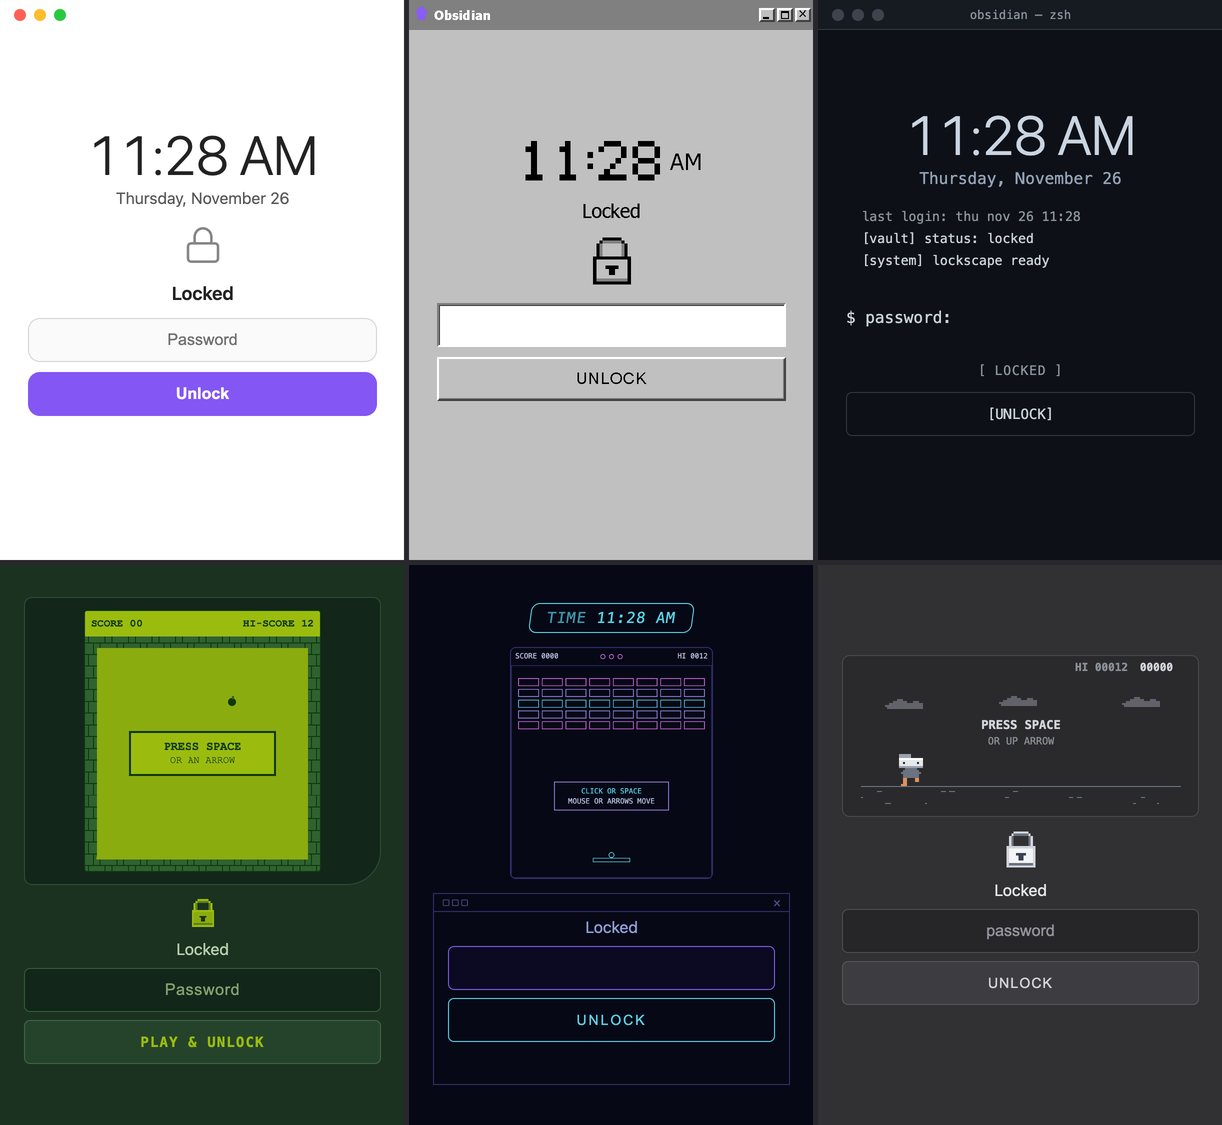
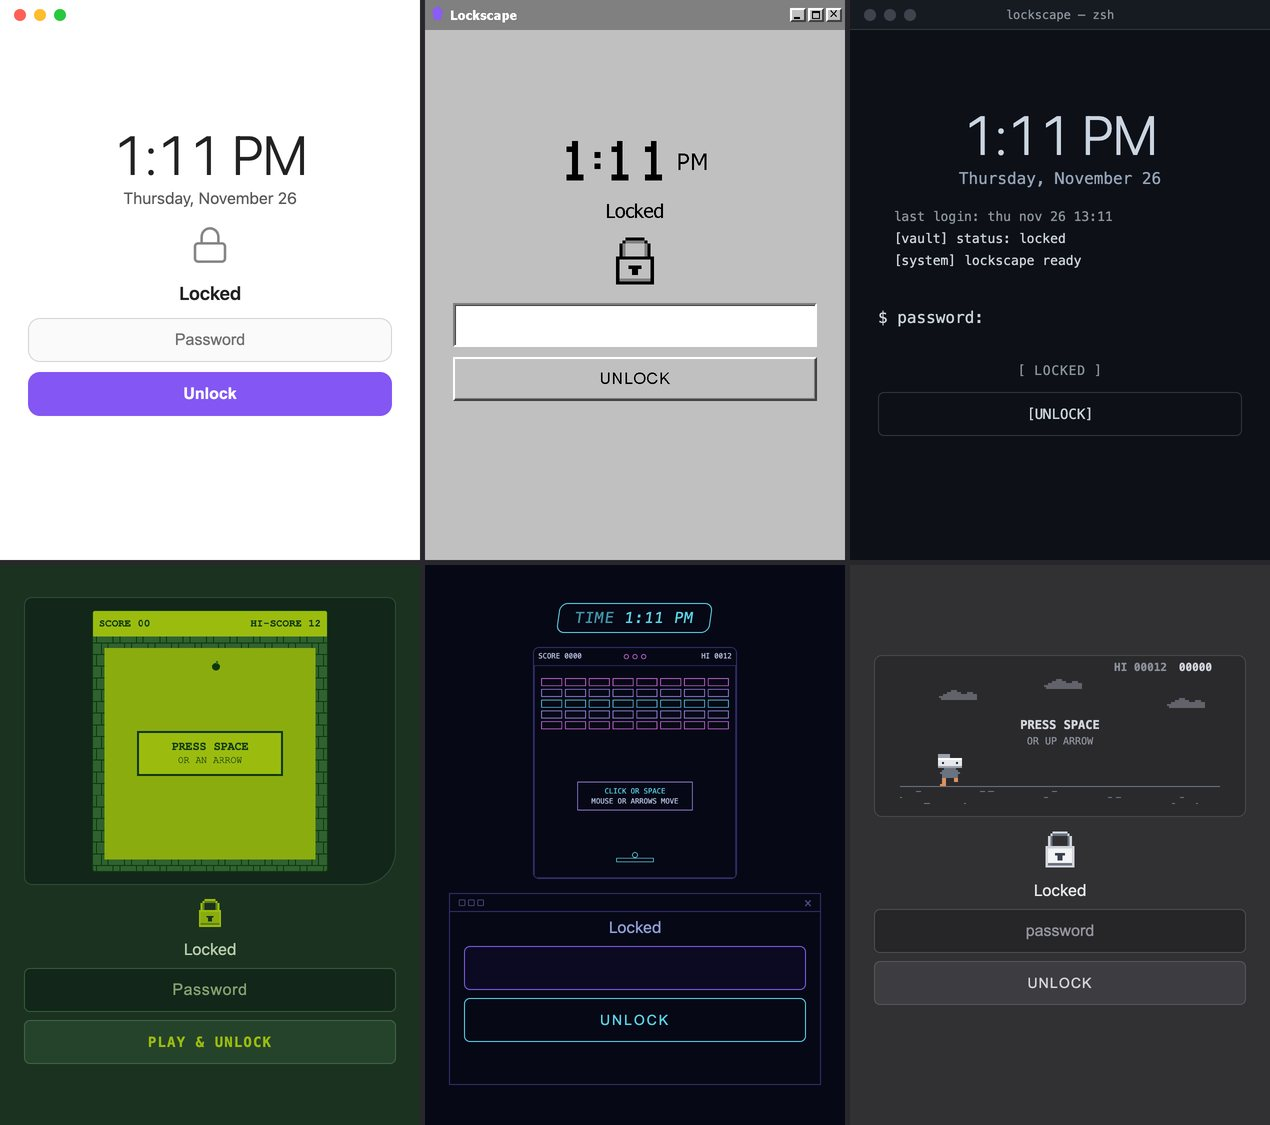
Lockscape 0.1.2: drop the Obsidian name from themes
- rename the runner theme to Folder runner (id folder-runner; the old id is migrated)
- Windows 95 title bar and terminal header now say Lockscape
- new theme screenshot

diff --git a/main.js b/main.js
@@ -462,7 +462,7 @@ var en = {
   themeTerminal: "Developer terminal",
   themeSnake: "Handheld snake (game)",
   themeBreakout: "Arcade breakout (game)",
-  themeRunner: "Obsidian runner (game)",
+  themeRunner: "Folder runner (game)",
   themeAuto: "Theme default",
   animGlow: "Cursor spotlight",
   animTrail: "Cursor trail",
@@ -629,7 +629,7 @@ var ko = {
   themeTerminal: "\uAC1C\uBC1C\uC790 \uD130\uBBF8\uB110",
   themeSnake: "\uAC8C\uC784\uBCF4\uC774 \uC2A4\uB124\uC774\uD06C (\uAC8C\uC784)",
   themeBreakout: "\uC544\uCF00\uC774\uB4DC \uBCBD\uB3CC\uAE68\uAE30 (\uAC8C\uC784)",
-  themeRunner: "\uC635\uC2DC\uB514\uC5B8 \uB7EC\uB108 (\uAC8C\uC784)",
+  themeRunner: "\uD3F4\uB354 \uB7EC\uB108 (\uAC8C\uC784)",
   themeAuto: "\uD14C\uB9C8 \uAE30\uBCF8",
   animGlow: "\uB9C8\uC6B0\uC2A4 \uC870\uBA85",
   animTrail: "\uB9C8\uC6B0\uC2A4 \uADA4\uC801",
@@ -796,7 +796,7 @@ var ja = {
   themeTerminal: "\u958B\u767A\u8005\u30BF\u30FC\u30DF\u30CA\u30EB",
   themeSnake: "\u643A\u5E2F\u30B2\u30FC\u30E0\u6A5F\u30B9\u30CD\u30FC\u30AF (\u30B2\u30FC\u30E0)",
   themeBreakout: "\u30A2\u30FC\u30B1\u30FC\u30C9\u30D6\u30ED\u30C3\u30AF\u5D29\u3057 (\u30B2\u30FC\u30E0)",
-  themeRunner: "\u30AA\u30D6\u30B7\u30C7\u30A3\u30A2\u30F3\u30FB\u30E9\u30F3\u30CA\u30FC (\u30B2\u30FC\u30E0)",
+  themeRunner: "\u30D5\u30A9\u30EB\u30C0\u30FC\u30FB\u30E9\u30F3\u30CA\u30FC (\u30B2\u30FC\u30E0)",
   themeAuto: "\u30C6\u30FC\u30DE\u306E\u65E2\u5B9A",
   animGlow: "\u30AB\u30FC\u30BD\u30EB\u306E\u30B9\u30DD\u30C3\u30C8\u30E9\u30A4\u30C8",
   animTrail: "\u30AB\u30FC\u30BD\u30EB\u306E\u8ECC\u8DE1",
@@ -963,7 +963,7 @@ var zh = {
   themeTerminal: "\u5F00\u53D1\u8005\u7EC8\u7AEF",
   themeSnake: "\u638C\u673A\u8D2A\u5403\u86C7 (\u6E38\u620F)",
   themeBreakout: "\u8857\u673A\u6253\u7816\u5757 (\u6E38\u620F)",
-  themeRunner: "\u9ED1\u66DC\u77F3\u8DD1\u9177 (\u6E38\u620F)",
+  themeRunner: "\u6587\u4EF6\u5939\u8DD1\u9177 (\u6E38\u620F)",
   themeAuto: "\u4E3B\u9898\u9ED8\u8BA4",
   animGlow: "\u9F20\u6807\u805A\u5149\u706F",
   animTrail: "\u9F20\u6807\u8F68\u8FF9",
@@ -1130,7 +1130,7 @@ var zhTW = {
   themeTerminal: "\u958B\u767C\u8005\u7D42\u7AEF\u6A5F",
   themeSnake: "\u638C\u6A5F\u8CAA\u98DF\u86C7 (\u904A\u6232)",
   themeBreakout: "\u8857\u6A5F\u6253\u78DA\u584A (\u904A\u6232)",
-  themeRunner: "\u9ED1\u66DC\u77F3\u8DD1\u9177 (\u904A\u6232)",
+  themeRunner: "\u8CC7\u6599\u593E\u8DD1\u9177 (\u904A\u6232)",
   themeAuto: "\u4E3B\u984C\u9810\u8A2D",
   animGlow: "\u6ED1\u9F20\u805A\u5149\u71C8",
   animTrail: "\u6ED1\u9F20\u8ECC\u8DE1",
@@ -1297,7 +1297,7 @@ var es = {
   themeTerminal: "Terminal de desarrollo",
   themeSnake: "Serpiente port\xE1til (juego)",
   themeBreakout: "Arcade rompe-bloques (juego)",
-  themeRunner: "Obsidian Runner (juego)",
+  themeRunner: "Folder Runner (juego)",
   themeAuto: "Predeterminada del tema",
   animGlow: "Foco que sigue al cursor",
   animTrail: "Estela del cursor",
@@ -1464,7 +1464,7 @@ var fr = {
   themeTerminal: "Terminal d\xE9veloppeur",
   themeSnake: "Snake console portable (jeu)",
   themeBreakout: "Casse-briques arcade (jeu)",
-  themeRunner: "Obsidian Runner (jeu)",
+  themeRunner: "Folder Runner (jeu)",
   themeAuto: "D\xE9faut du th\xE8me",
   animGlow: "Projecteur qui suit le curseur",
   animTrail: "Tra\xEEn\xE9e du curseur",
@@ -1631,7 +1631,7 @@ var de = {
   themeTerminal: "Entwickler-Terminal",
   themeSnake: "Handheld-Snake (Spiel)",
   themeBreakout: "Arcade-Breakout (Spiel)",
-  themeRunner: "Obsidian-Runner (Spiel)",
+  themeRunner: "Folder-Runner (Spiel)",
   themeAuto: "Theme-Standard",
   animGlow: "Cursor-Scheinwerfer",
   animTrail: "Cursor-Spur",
@@ -1798,7 +1798,7 @@ var pt = {
   themeTerminal: "Terminal do desenvolvedor",
   themeSnake: "Snake port\xE1til (jogo)",
   themeBreakout: "Quebra-blocos arcade (jogo)",
-  themeRunner: "Obsidian Runner (jogo)",
+  themeRunner: "Folder Runner (jogo)",
   themeAuto: "Padr\xE3o do tema",
   animGlow: "Holofote do cursor",
   animTrail: "Rastro do cursor",
@@ -1965,7 +1965,7 @@ var ru = {
   themeTerminal: "\u0422\u0435\u0440\u043C\u0438\u043D\u0430\u043B \u0440\u0430\u0437\u0440\u0430\u0431\u043E\u0442\u0447\u0438\u043A\u0430",
   themeSnake: "\u0417\u043C\u0435\u0439\u043A\u0430 \u043D\u0430 \u043A\u043E\u043D\u0441\u043E\u043B\u0438 (\u0438\u0433\u0440\u0430)",
   themeBreakout: "\u0410\u0440\u043A\u0430\u0434\u0430: \u0440\u0430\u0437\u0431\u0435\u0439 \u043A\u0438\u0440\u043F\u0438\u0447\u0438 (\u0438\u0433\u0440\u0430)",
-  themeRunner: "Obsidian Runner (\u0438\u0433\u0440\u0430)",
+  themeRunner: "Folder Runner (\u0438\u0433\u0440\u0430)",
   themeAuto: "\u0418\u0437 \u0442\u0435\u043C\u044B",
   animGlow: "\u041F\u0440\u043E\u0436\u0435\u043A\u0442\u043E\u0440 \u0437\u0430 \u043A\u0443\u0440\u0441\u043E\u0440\u043E\u043C",
   animTrail: "\u0421\u043B\u0435\u0434 \u043A\u0443\u0440\u0441\u043E\u0440\u0430",
@@ -2052,12 +2052,12 @@ function clipChars(text, max) {
 }
 
 // src/themes.ts
-var THEMES = ["default", "win95", "terminal", "gameboy-snake", "neon-breakout", "obsidian-runner"];
+var THEMES = ["default", "win95", "terminal", "gameboy-snake", "neon-breakout", "folder-runner"];
 var GAME_IDS = ["snake", "breakout", "runner"];
 var GAME_OF = {
   "gameboy-snake": "snake",
   "neon-breakout": "breakout",
-  "obsidian-runner": "runner"
+  "folder-runner": "runner"
 };
 function gameOf(theme) {
   return GAME_OF[theme] ?? null;
@@ -2068,9 +2068,10 @@ var THEME_TEXT = {
   terminal: { unlock: "[UNLOCK]", title: "[ LOCKED ]", unlocked: "[ UNLOCKED ]", placeholder: "none" },
   "gameboy-snake": { unlock: "PLAY & UNLOCK" },
   "neon-breakout": { unlock: "UNLOCK", placeholder: "none" },
-  "obsidian-runner": { unlock: "UNLOCK", placeholder: "english" }
+  "folder-runner": { unlock: "UNLOCK", placeholder: "english" }
 };
 function parseTheme(raw) {
+  if (raw === "obsidian-runner") return "folder-runner";
   return THEMES.includes(raw) ? raw : "default";
 }
 var MAX_SCORE = 999999;
@@ -3660,7 +3661,7 @@ function isFormControl(el) {
 }
 var PIXEL_LOCKS = {
   win95: { o: "#000000", s: "#808080", f: "#c0c0c0", k: "#000000" },
-  "obsidian-runner": { o: "#d1d5db", s: "#6b7280", f: "#f3f4f6", k: "#374151" },
+  "folder-runner": { o: "#d1d5db", s: "#6b7280", f: "#f3f4f6", k: "#374151" },
   "gameboy-snake": { o: "#9bbc0f", s: "#5f7f1a", f: "#8bac0f", k: "#1b3220" }
 };
 var clamp2 = (n, min, max) => Math.min(max, Math.max(min, n));
@@ -4066,7 +4067,7 @@ var OverlayView = class {
     this.baseTitle = text.title ?? this.t.lockedTitle;
     if (!this.root.classList.contains("is-unlocking")) this.drawIcon(false);
     this.input.placeholder = text.placeholder === "none" ? " " : text.placeholder === "english" ? "password" : this.t.placeholder;
-    this.chromeTitleEl.textContent = a.theme === "win95" ? "Obsidian" : a.theme === "terminal" ? "obsidian \u2014 zsh" : "";
+    this.chromeTitleEl.textContent = a.theme === "win95" ? "Lockscape" : a.theme === "terminal" ? "lockscape \u2014 zsh" : "";
     r.classList.toggle("has-recovery", a.hasRecovery);
     if (!a.hasRecovery && this.recoveryOn) this.setRecovery(false);
     this.refreshLabels();
@@ -5375,7 +5376,7 @@ var VaultLockSettingTab = class extends import_obsidian3.PluginSettingTab {
         terminal: t.themeTerminal,
         "gameboy-snake": t.themeSnake,
         "neon-breakout": t.themeBreakout,
-        "obsidian-runner": t.themeRunner
+        "folder-runner": t.themeRunner
       },
       () => s.theme,
       (v) => s.theme = v

diff --git a/styles.css b/styles.css
@@ -872,7 +872,7 @@ body.is-frameless .vault-lock-overlay { padding-top: max(var(--titlebar-height, 
 .vault-lock-overlay[data-theme="terminal"] .vault-lock-message { grid-column: 1 / -1; grid-row: 4; color: #f85149; }
 
 /* =========================================================================================
- * OFFLINE GAME THEMES (gameboy-snake, neon-breakout, obsidian-runner)
+ * OFFLINE GAME THEMES (gameboy-snake, neon-breakout, folder-runner)
  * A small canvas game sits above the lock card. The plugin draws the game; these rules frame it and restyle the
  * clock, card, field and button to match. No glow, no shadows: 1px lines and matte colours.
  * ========================================================================================= */
@@ -1010,37 +1010,37 @@ body.is-frameless .vault-lock-overlay { padding-top: max(var(--titlebar-height, 
 .vault-lock-overlay[data-theme="neon-breakout"] .vault-lock-button:hover { background: rgba(90, 210, 230, 0.08); }
 .vault-lock-overlay[data-theme="neon-breakout"] .vault-lock-message { color: #e879b9; }
 
-/* ---------- Obsidian Runner: matte dark grey, pixel padlock ---------- */
-.vault-lock-overlay[data-theme="obsidian-runner"] { background: #1c1c1e; }
-.vault-lock-overlay[data-theme="obsidian-runner"] .vault-lock-stage {
+/* ---------- Folder Runner: matte dark grey, pixel padlock ---------- */
+.vault-lock-overlay[data-theme="folder-runner"] { background: #1c1c1e; }
+.vault-lock-overlay[data-theme="folder-runner"] .vault-lock-stage {
 	--vl-win-bg: #313133;
 	--vl-win-fg: var(--vl-text, #e5e7eb);
 	--vl-game-reserve: 290px;
 	border: 1px solid #48484c;
 	border-radius: 14px;
 }
-.vault-lock-overlay[data-theme="obsidian-runner"] .vault-lock-clock { display: none; }
-.vault-lock-overlay[data-theme="obsidian-runner"] .vault-lock-game { background: #2a2a2d; border: 1px solid #48484c; border-radius: 8px; overflow: hidden; }
-.vault-lock-overlay[data-theme="obsidian-runner"] .vault-lock-game-canvas { image-rendering: pixelated; }
-.vault-lock-overlay[data-theme="obsidian-runner"] .vault-lock-icon svg { width: 34px; height: 37px; opacity: 1; }
-.vault-lock-overlay[data-theme="obsidian-runner"] .vault-lock-input {
+.vault-lock-overlay[data-theme="folder-runner"] .vault-lock-clock { display: none; }
+.vault-lock-overlay[data-theme="folder-runner"] .vault-lock-game { background: #2a2a2d; border: 1px solid #48484c; border-radius: 8px; overflow: hidden; }
+.vault-lock-overlay[data-theme="folder-runner"] .vault-lock-game-canvas { image-rendering: pixelated; }
+.vault-lock-overlay[data-theme="folder-runner"] .vault-lock-icon svg { width: 34px; height: 37px; opacity: 1; }
+.vault-lock-overlay[data-theme="folder-runner"] .vault-lock-input {
 	border: 1px solid #4c4c51;
 	border-radius: 6px;
 	background: #262628;
 	box-shadow: none;
 	color: #e5e7eb;
 }
-.vault-lock-overlay[data-theme="obsidian-runner"] .vault-lock-input::placeholder { color: #9494a0; }
-.vault-lock-overlay[data-theme="obsidian-runner"] .vault-lock-input:focus { border-color: var(--vl-accent, #9ca3af); box-shadow: none; }
-.vault-lock-overlay[data-theme="obsidian-runner"] .vault-lock-button {
+.vault-lock-overlay[data-theme="folder-runner"] .vault-lock-input::placeholder { color: #9494a0; }
+.vault-lock-overlay[data-theme="folder-runner"] .vault-lock-input:focus { border-color: var(--vl-accent, #9ca3af); box-shadow: none; }
+.vault-lock-overlay[data-theme="folder-runner"] .vault-lock-button {
 	border: 1px solid #55555a;
 	border-radius: 6px;
 	background: #3d3d41;
 	color: #d4d4d8;
 	font-weight: 500;
 }
-.vault-lock-overlay[data-theme="obsidian-runner"] .vault-lock-button:hover { background: #47474c; }
-.vault-lock-overlay[data-theme="obsidian-runner"] .vault-lock-message { color: #f08a8a; }
+.vault-lock-overlay[data-theme="folder-runner"] .vault-lock-button:hover { background: #47474c; }
+.vault-lock-overlay[data-theme="folder-runner"] .vault-lock-message { color: #f08a8a; }
 
 /* landscape phones and other very low windows: tighter, and the terminal's fake log goes, so the field is on the first screen */
 @media (max-height: 400px) {

diff --git a/tools/test.ts b/tools/test.ts
@@ -54,10 +54,11 @@ const check = (name: string, ok: boolean) => { console.log((ok ? "PASS " : "FAIL
 
   // themes
   check("six themes", THEMES.length === 6 && THEMES[0] === "default");
-  check("parseTheme keeps a known theme", parseTheme("win95") === "win95" && parseTheme("obsidian-runner") === "obsidian-runner");
+  check("parseTheme keeps a known theme", parseTheme("win95") === "win95" && parseTheme("folder-runner") === "folder-runner");
+  check("parseTheme moves the old runner id to the new one", parseTheme("obsidian-runner") === "folder-runner");
   check("parseTheme: retro/cartoon from older versions become default", parseTheme("retro") === "default" && parseTheme("cartoon") === "default");
   check("parseTheme: junk becomes default", parseTheme(undefined) === "default" && parseTheme(7) === "default" && parseTheme({}) === "default" && parseTheme("__proto__") === "default");
-  check("three game themes", THEMES.filter((t) => gameOf(t) !== null).length === 3 && gameOf("gameboy-snake") === "snake" && gameOf("neon-breakout") === "breakout" && gameOf("obsidian-runner") === "runner" && gameOf("terminal") === null);
+  check("three game themes", THEMES.filter((t) => gameOf(t) !== null).length === 3 && gameOf("gameboy-snake") === "snake" && gameOf("neon-breakout") === "breakout" && gameOf("folder-runner") === "runner" && gameOf("terminal") === null);
   check("every theme has a text spec", THEMES.every((t) => t in THEME_TEXT));
   check("parseHighScores: valid", JSON.stringify(parseHighScores({ snake: 12, breakout: 340, runner: 5 })) === JSON.stringify({ snake: 12, breakout: 340, runner: 5 }));
   check("parseHighScores: negative, NaN, strings, floats, huge", JSON.stringify(parseHighScores({ snake: -5, breakout: "9", runner: 1e12 })) === JSON.stringify({ snake: 0, breakout: 0, runner: 999999 }) && parseHighScores({ snake: NaN }).snake === 0 && parseHighScores({ snake: 7.9 }).snake === 7);

diff --git a/src/themes.ts b/src/themes.ts
@@ -2,7 +2,7 @@
 // Three of them also run a small offline canvas game above the password field.
 // This file has no DOM or Obsidian imports on purpose: it is unit-tested in plain node.
 
-export const THEMES = ["default", "win95", "terminal", "gameboy-snake", "neon-breakout", "obsidian-runner"] as const;
+export const THEMES = ["default", "win95", "terminal", "gameboy-snake", "neon-breakout", "folder-runner"] as const;
 export type Theme = (typeof THEMES)[number];
 
 export const GAME_IDS = ["snake", "breakout", "runner"] as const;
@@ -11,7 +11,7 @@ export type GameId = (typeof GAME_IDS)[number];
 const GAME_OF: Readonly<Partial<Record<Theme, GameId>>> = {
 	"gameboy-snake": "snake",
 	"neon-breakout": "breakout",
-	"obsidian-runner": "runner",
+	"folder-runner": "runner",
 };
 
 export function gameOf(theme: Theme): GameId | null {
@@ -35,11 +35,12 @@ export const THEME_TEXT: Readonly<Record<Theme, ThemeText>> = {
 	terminal: { unlock: "[UNLOCK]", title: "[ LOCKED ]", unlocked: "[ UNLOCKED ]", placeholder: "none" },
 	"gameboy-snake": { unlock: "PLAY & UNLOCK" },
 	"neon-breakout": { unlock: "UNLOCK", placeholder: "none" },
-	"obsidian-runner": { unlock: "UNLOCK", placeholder: "english" },
+	"folder-runner": { unlock: "UNLOCK", placeholder: "english" },
 };
 
 /** A saved theme name. Anything unknown, including the retro and cartoon themes of earlier versions, becomes the default. */
 export function parseTheme(raw: unknown): Theme {
+	if (raw === "obsidian-runner") return "folder-runner"; // the runner theme's id up to 0.1.1
 	return (THEMES as readonly unknown[]).includes(raw) ? (raw as Theme) : "default";
 }
 

diff --git a/src/lockscreen.ts b/src/lockscreen.ts
@@ -103,7 +103,7 @@ function isFormControl(el: Element | null): boolean {
 /** Themes that draw their padlock as pixel art instead of the icon set's line icon. */
 const PIXEL_LOCKS: Partial<Record<Theme, PixelPalette>> = {
 	win95: { o: "#000000", s: "#808080", f: "#c0c0c0", k: "#000000" },
-	"obsidian-runner": { o: "#d1d5db", s: "#6b7280", f: "#f3f4f6", k: "#374151" },
+	"folder-runner": { o: "#d1d5db", s: "#6b7280", f: "#f3f4f6", k: "#374151" },
 	"gameboy-snake": { o: "#9bbc0f", s: "#5f7f1a", f: "#8bac0f", k: "#1b3220" },
 };
 
@@ -630,7 +630,7 @@ class OverlayView {
 		this.baseTitle = text.title ?? this.t.lockedTitle;
 		if (!this.root.classList.contains("is-unlocking")) this.drawIcon(false);
 		this.input.placeholder = text.placeholder === "none" ? " " : text.placeholder === "english" ? "password" : this.t.placeholder;
-		this.chromeTitleEl.textContent = a.theme === "win95" ? "Obsidian" : a.theme === "terminal" ? "obsidian — zsh" : "";
+		this.chromeTitleEl.textContent = a.theme === "win95" ? "Lockscape" : a.theme === "terminal" ? "lockscape — zsh" : "";
 		r.classList.toggle("has-recovery", a.hasRecovery);
 		if (!a.hasRecovery && this.recoveryOn) this.setRecovery(false);
 		this.refreshLabels();

diff --git a/src/i18n/ja.ts b/src/i18n/ja.ts
@@ -124,7 +124,7 @@ const ja: Strings = {
 	themeTerminal: "開発者ターミナル",
 	themeSnake: "携帯ゲーム機スネーク (ゲーム)",
 	themeBreakout: "アーケードブロック崩し (ゲーム)",
-	themeRunner: "オブシディアン・ランナー (ゲーム)",
+	themeRunner: "フォルダー・ランナー (ゲーム)",
 	themeAuto: "テーマの既定",
 	animGlow: "カーソルのスポットライト",
 	animTrail: "カーソルの軌跡",

diff --git a/src/i18n/ru.ts b/src/i18n/ru.ts
@@ -124,7 +124,7 @@ const ru: Strings = {
 	themeTerminal: "Терминал разработчика",
 	themeSnake: "Змейка на консоли (игра)",
 	themeBreakout: "Аркада: разбей кирпичи (игра)",
-	themeRunner: "Obsidian Runner (игра)",
+	themeRunner: "Folder Runner (игра)",
 	themeAuto: "Из темы",
 	animGlow: "Прожектор за курсором",
 	animTrail: "След курсора",

diff --git a/src/i18n/es.ts b/src/i18n/es.ts
@@ -124,7 +124,7 @@ const es: Strings = {
 	themeTerminal: "Terminal de desarrollo",
 	themeSnake: "Serpiente portátil (juego)",
 	themeBreakout: "Arcade rompe-bloques (juego)",
-	themeRunner: "Obsidian Runner (juego)",
+	themeRunner: "Folder Runner (juego)",
 	themeAuto: "Predeterminada del tema",
 	animGlow: "Foco que sigue al cursor",
 	animTrail: "Estela del cursor",

diff --git a/src/i18n/fr.ts b/src/i18n/fr.ts
@@ -124,7 +124,7 @@ const fr: Strings = {
 	themeTerminal: "Terminal développeur",
 	themeSnake: "Snake console portable (jeu)",
 	themeBreakout: "Casse-briques arcade (jeu)",
-	themeRunner: "Obsidian Runner (jeu)",
+	themeRunner: "Folder Runner (jeu)",
 	themeAuto: "Défaut du thème",
 	animGlow: "Projecteur qui suit le curseur",
 	animTrail: "Traînée du curseur",

diff --git a/src/i18n/ko.ts b/src/i18n/ko.ts
@@ -123,7 +123,7 @@ const ko: Strings = {
 	themeTerminal: "개발자 터미널",
 	themeSnake: "게임보이 스네이크 (게임)",
 	themeBreakout: "아케이드 벽돌깨기 (게임)",
-	themeRunner: "옵시디언 러너 (게임)",
+	themeRunner: "폴더 러너 (게임)",
 	themeAuto: "테마 기본",
 	animGlow: "마우스 조명",
 	animTrail: "마우스 궤적",

diff --git a/src/i18n/pt.ts b/src/i18n/pt.ts
@@ -125,7 +125,7 @@ const pt: Strings = {
 	themeTerminal: "Terminal do desenvolvedor",
 	themeSnake: "Snake portátil (jogo)",
 	themeBreakout: "Quebra-blocos arcade (jogo)",
-	themeRunner: "Obsidian Runner (jogo)",
+	themeRunner: "Folder Runner (jogo)",
 	themeAuto: "Padrão do tema",
 	animGlow: "Holofote do cursor",
 	animTrail: "Rastro do cursor",

diff --git a/src/i18n/zh-tw.ts b/src/i18n/zh-tw.ts
@@ -123,7 +123,7 @@ const zhTW: Strings = {
 	themeTerminal: "開發者終端機",
 	themeSnake: "掌機貪食蛇 (遊戲)",
 	themeBreakout: "街機打磚塊 (遊戲)",
-	themeRunner: "黑曜石跑酷 (遊戲)",
+	themeRunner: "資料夾跑酷 (遊戲)",
 	themeAuto: "主題預設",
 	animGlow: "滑鼠聚光燈",
 	animTrail: "滑鼠軌跡",
